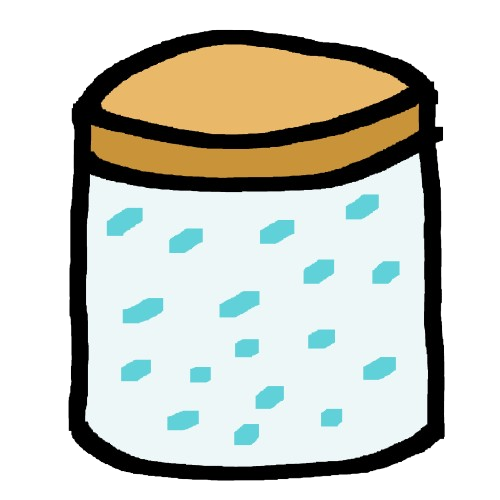
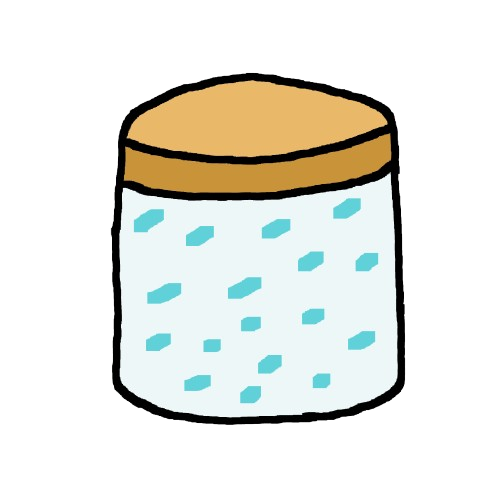
- Improving the overall look of the shop again. - removing unused images

Changed region(s): [[0.12, 0.06, 0.9, 0.96], [0.33, 0.45, 0.45, 0.51]]

diff --git a/No-Gifts-By-Santa/MVVM/View/ShopView.xaml b/No-Gifts-By-Santa/MVVM/View/ShopView.xaml
@@ -18,9 +18,18 @@
             <ScrollView Margin="50,0,0,0">
                 <StackLayout Orientation="Vertical">
                     <StackLayout Orientation="Horizontal">
-                        <ImageButton Padding="20" BackgroundColor="Transparent" Source="{Binding Candy1}" Command="{Binding BuyCandy1}" HeightRequest="150" WidthRequest="150" />
-                        <ImageButton Padding="20" BackgroundColor="Transparent" Source="{Binding Candy2}" Command="{Binding BuyCandy2}" HeightRequest="150" WidthRequest="150" />
-                        <ImageButton Padding="20" BackgroundColor="Transparent" Source="{Binding Gingerbread}" Command="{Binding BuyGingerbread}" HeightRequest="150" WidthRequest="150" />
+                        <Grid HeightRequest="150" WidthRequest="150">
+                            <Image HeightRequest="150" WidthRequest="150" Source="pack_item_1.png" />
+                            <ImageButton Padding="20" BackgroundColor="Transparent" Source="{Binding Candy1}" Command="{Binding BuyCandy1}" HeightRequest="100" WidthRequest="100" />
+                        </Grid>
+                        <Grid HeightRequest="150" WidthRequest="150">
+                            <Image HeightRequest="150" WidthRequest="150" Source="pack_item_2.png" />
+                            <ImageButton Padding="20" BackgroundColor="Transparent" Source="{Binding Candy2}" Command="{Binding BuyCandy2}" HeightRequest="100" WidthRequest="100" />
+                        </Grid>
+                        <Grid HeightRequest="150" WidthRequest="150">
+                            <Image HeightRequest="150" WidthRequest="150" Source="pack_item_3.png" />
+                            <ImageButton Padding="20" BackgroundColor="Transparent" Source="{Binding Gingerbread}" Command="{Binding BuyGingerbread}" HeightRequest="100" WidthRequest="100" />
+                        </Grid>
                         <StackLayout Orientation="Vertical" VerticalOptions="Center">
                             <StackLayout Orientation="Horizontal">
                                 <Image Source="gingerbread.png" WidthRequest="35" HeightRequest="35"/>
@@ -29,9 +38,18 @@
                         </StackLayout>
                     </StackLayout>
                     <StackLayout Orientation="Horizontal">
-                        <ImageButton Padding="20" BackgroundColor="Transparent" Source="{Binding Orange}" Command="{Binding BuyOrange}" HeightRequest="150" WidthRequest="150" />
-                        <ImageButton Padding="20" BackgroundColor="Transparent" Source="{Binding Apple}" Command="{Binding BuyApple}" HeightRequest="150" WidthRequest="150" />
-                        <ImageButton Padding="20" BackgroundColor="Transparent" Source="{Binding Cherry}" Command="{Binding BuyCherry}" HeightRequest="150" WidthRequest="150" />
+                        <Grid HeightRequest="150" WidthRequest="150">
+                            <Image HeightRequest="150" WidthRequest="150" Source="pack_item_1.png" />
+                            <ImageButton Padding="20" BackgroundColor="Transparent" Source="{Binding Orange}" Command="{Binding BuyOrange}" HeightRequest="100" WidthRequest="100" />                            
+                        </Grid>
+                        <Grid HeightRequest="150" WidthRequest="150">
+                            <Image HeightRequest="150" WidthRequest="150" Source="pack_item_2.png" />
+                            <ImageButton Padding="20" BackgroundColor="Transparent" Source="{Binding Apple}" Command="{Binding BuyApple}" HeightRequest="100" WidthRequest="100" />
+                        </Grid>
+                        <Grid HeightRequest="150" WidthRequest="150">
+                            <Image HeightRequest="150" WidthRequest="150" Source="pack_item_3.png" />
+                            <ImageButton Padding="20" BackgroundColor="Transparent" Source="{Binding Cherry}" Command="{Binding BuyCherry}" HeightRequest="100" WidthRequest="100" />                            
+                        </Grid>
                         <StackLayout Orientation="Vertical" VerticalOptions="Center">
                             <StackLayout Orientation="Horizontal">
                                 <Image Source="gingerbread.png" WidthRequest="35" HeightRequest="35"/>
@@ -40,9 +58,18 @@
                         </StackLayout>
                     </StackLayout>
                     <StackLayout Orientation="Horizontal">
-                        <ImageButton Padding="20" BackgroundColor="Transparent" Source="{Binding Heyhat}" Command="{Binding BuyHeyhat}" HeightRequest="150" WidthRequest="150" />
-                        <ImageButton Padding="20" BackgroundColor="Transparent" Source="{Binding Hayhayhay}" Command="{Binding BuyHayhayhay}" HeightRequest="150" WidthRequest="150" />
-                        <ImageButton Padding="20" BackgroundColor="Transparent" Source="{Binding Carrot}" Command="{Binding BuyCarrot}" HeightRequest="150" WidthRequest="150" />
+                        <Grid HeightRequest="150" WidthRequest="150">
+                            <Image HeightRequest="150" WidthRequest="150" Source="pack_item_1.png" />
+                            <ImageButton Padding="20" BackgroundColor="Transparent" Source="{Binding Heyhat}" Command="{Binding BuyHeyhat}" HeightRequest="100" WidthRequest="100" />
+                        </Grid>
+                        <Grid HeightRequest="150" WidthRequest="150">
+                            <Image HeightRequest="150" WidthRequest="150" Source="pack_item_2.png" />
+                            <ImageButton Padding="20" BackgroundColor="Transparent" Source="{Binding Hayhayhay}" Command="{Binding BuyHayhayhay}" HeightRequest="100" WidthRequest="100" />                            
+                        </Grid>
+                        <Grid HeightRequest="150" WidthRequest="150">
+                            <Image HeightRequest="150" WidthRequest="150" Source="pack_item_3.png" />
+                            <ImageButton Padding="20" BackgroundColor="Transparent" Source="{Binding Carrot}" Command="{Binding BuyCarrot}" HeightRequest="100" WidthRequest="100" />
+                        </Grid>
                         <StackLayout Orientation="Vertical" VerticalOptions="Center">
                             <StackLayout Orientation="Horizontal">
                                 <Image Source="gingerbread.png" WidthRequest="35" HeightRequest="35"/>

diff --git a/No-Gifts-By-Santa/MVVM/View/GameView.xaml b/No-Gifts-By-Santa/MVVM/View/GameView.xaml
@@ -13,8 +13,8 @@
             <Grid>
                 <Image Aspect="Fill" HorizontalOptions="Fill" VerticalOptions="Fill" Source="game_menu.png"/>
                 <StackLayout HorizontalOptions="Center" VerticalOptions="Start">
-                    <ProgressBar ProgressColor="#a997d7" BackgroundColor="#E0E8FF" Progress="{Binding Progress}" HeightRequest="20" WidthRequest="300"/>
-                    <Label TextColor="#a997d7" FontSize="12" Text="{Binding RemainingGifts}"/>
+                    <ProgressBar ProgressColor="#f6e8e8" BackgroundColor="#ffffff" Progress="{Binding Progress}" HeightRequest="40" WidthRequest="300"/>
+                    <Label TextColor="#f6e8e8" FontSize="20" FontAttributes="Bold" Text="{Binding RemainingGifts}"/>
                 </StackLayout>
                 <StackLayout Orientation="Horizontal" HorizontalOptions="Start" VerticalOptions="Start">
                     <Image Source="gingerbread.png" HeightRequest="30"/>

diff --git a/No-Gifts-By-Santa/MVVM/ViewModel/ShopViewModel.cs b/No-Gifts-By-Santa/MVVM/ViewModel/ShopViewModel.cs
@@ -4,6 +4,7 @@ using System.Runtime.CompilerServices;
 using System.Windows.Input;
 using Microsoft.Maui.Controls;
 using Microsoft.Maui.Storage;
+using No_Gifts_By_Santa.MVVM.Model;
 
 namespace No_Gifts_By_Santa.MVVM.ViewModel
 {
@@ -114,36 +115,45 @@ namespace No_Gifts_By_Santa.MVVM.ViewModel
 
         private void RefreshImages()
         {
-            Candy1 = $"candy_1{(Preferences.Get("Candy1", false) ? "" : "_off")}.png";
-            Candy2 = $"candy_2{(Preferences.Get("Candy2", false) ? "" : "_off")}.png";
-            Gingerbread = $"gingerbread{(Preferences.Get("Candy3", false) ? "" : "_off")}.png";
+            Candy1 = $"candy_1{(Preferences.Get("CandyCane", false) ? "" : "_off")}.png";
+            Candy2 = $"candy_2{(Preferences.Get("BonBon", false) ? "" : "_off")}.png";
+            Gingerbread = $"gingerbread{(Preferences.Get("GingerbreadMan", false) ? "" : "_off")}.png";
             Orange = $"orange{(Preferences.Get("Orange", false) ? "" : "_off")}.png";
             Apple = $"apple{(Preferences.Get("Apple", false) ? "" : "_off")}.png";
             Cherry = $"cherry{(Preferences.Get("Cherry", false) ? "" : "_off")}.png";
             Heyhat = $"hat_2{(Preferences.Get("Hayhat", false) ? "" : "_off")}.png";
-            Hayhayhay = $"heyheyhey{(Preferences.Get("Heyheyhey", false) ? "" : "_off")}.png";
+            Hayhayhay = $"heyheyhey{(Preferences.Get("pitchfork", false) ? "" : "_off")}.png";
             Carrot = $"carrot{(Preferences.Get("Carrot", false) ? "" : "_off")}.png";
         }
 
-        private void BuyCandy1Execute() => TryBuy("Candy1", 50);
-        private void BuyCandy2Execute() => TryBuy("Candy2", 50);
-        private void BuyGingerbreadExecute() => TryBuy("Candy3", 50);
-        private void BuyOrangeExecute() => TryBuy("Orange", 100);
-        private void BuyAppleExecute() => TryBuy("Apple", 100);
-        private void BuyCherryExecute() => TryBuy("Cherry", 100);
-        private void BuyHeyhatExecute() => TryBuy("Hayhat", 200);
-        private void BuyHayhayhayExecute() => TryBuy("Heyheyhey", 200);
-        private void BuyCarrotExecute() => TryBuy("Carrot", 200);
+        private void BuyCandy1Execute() => TryBuy("CandyCane", 50, allItems.Candy(null, null));
+        private void BuyCandy2Execute() => TryBuy("BonBon", 50, allItems.Candy_2(null, null));
+        private void BuyGingerbreadExecute() => TryBuy("GingerbreadMan", 50, allItems.gingerbread(null, null));
+        private void BuyOrangeExecute() => TryBuy("Orange", 100, allItems.orange(null, null));
+        private void BuyAppleExecute() => TryBuy("Apple", 100, allItems.apple(null, null));
+        private void BuyCherryExecute() => TryBuy("Cherry", 100, allItems.cherry(null, null));
+        private void BuyHeyhatExecute() => TryBuy("Hayhat", 200, allItems.hat2(null, null));
+        private void BuyHayhayhayExecute() => TryBuy("pitchfork", 200, allItems.heyheyhey(null, null));
+        private void BuyCarrotExecute() => TryBuy("Carrot", 200, allItems.carrot(null, null));
 
-        private void TryBuy(string preferenceKey, int cost)
+        private async void TryBuy(string preferenceKey, int cost, Item item)
         {
             if (Preferences.Get(preferenceKey, false))
+            {
+                await Application.Current!.MainPage!.DisplayAlert(preferenceKey, $"Properties:\n\nColor: {item.Color}\nCategory: {item.Category}\nAge-group: {item.AgeGroup}\nMaterial: {item.Material}\nUsage: {item.Usage}", "close");
                 return;
+            }
 
             var balance = Preferences.Get("Lebkuchen", 0);
             if (balance < cost)
+            {
+                await Application.Current!.MainPage!.DisplayAlert(preferenceKey, $"Properties:\n\nColor: {item.Color}\nCategory: {item.Category}\nAge-group: {item.AgeGroup}\nMaterial: {item.Material}\nUsage: {item.Usage}", "Not Enough Gingerbread");
                 return;
+            }
 
+            var buy = await Application.Current.MainPage.DisplayAlert(preferenceKey,  $"Properties:\n\nColor: {item.Color}\nCategory: {item.Category}\nAge-group: {item.AgeGroup}\nMaterial: {item.Material}\nUsage: {item.Usage}", "Buy", "close");
+            if(!buy)
+                return;
             var updatedBalance = balance - cost;
             Preferences.Set("Lebkuchen", updatedBalance);
             Preferences.Set(preferenceKey, true);

diff --git a/No-Gifts-By-Santa/MVVM/ViewModel/GameViewModel.cs b/No-Gifts-By-Santa/MVVM/ViewModel/GameViewModel.cs
@@ -154,15 +154,15 @@ namespace No_Gifts_By_Santa.MVVM.ViewModel
             OnPropertyChanged(nameof(WishText));
             
             _items.Add(allItems.Bee(_canvas, _giftBox));
-            if (Preferences.Get("Candy1", false))
+            if (Preferences.Get("CandyCane", false))
                 _items.Add(allItems.Candy(_canvas, _giftBox));
             _items.Add(allItems.mug1(_canvas, _giftBox));
             _items.Add(allItems.mug2(_canvas, _giftBox));
             if (Preferences.Get("Orange", false))
                 _items.Add(allItems.orange(_canvas, _giftBox));
-            if (Preferences.Get("Candy3", false))
+            if (Preferences.Get("GingerbreadMan", false))
                 _items.Add(allItems.gingerbread(_canvas, _giftBox));
-            if (Preferences.Get("Candy2", false))
+            if (Preferences.Get("BonBon", false))
                 _items.Add(allItems.Candy_2(_canvas, _giftBox));
             _items.Add(allItems.ring1(_canvas, _giftBox));
             //_items.Add(allItems.Dildo(_canvas, _giftBox));
@@ -173,7 +173,7 @@ namespace No_Gifts_By_Santa.MVVM.ViewModel
                 _items.Add(allItems.hat2(_canvas, _giftBox));
             _items.Add(allItems.money1(_canvas, _giftBox));
             _items.Add(allItems.money2(_canvas, _giftBox));
-            if (Preferences.Get("Heyheyhey", false))
+            if (Preferences.Get("pitchfork", false))
                 _items.Add(allItems.heyheyhey(_canvas, _giftBox));
             _items.Add(allItems.ring2(_canvas, _giftBox));
             if (Preferences.Get("Carrot", false))
